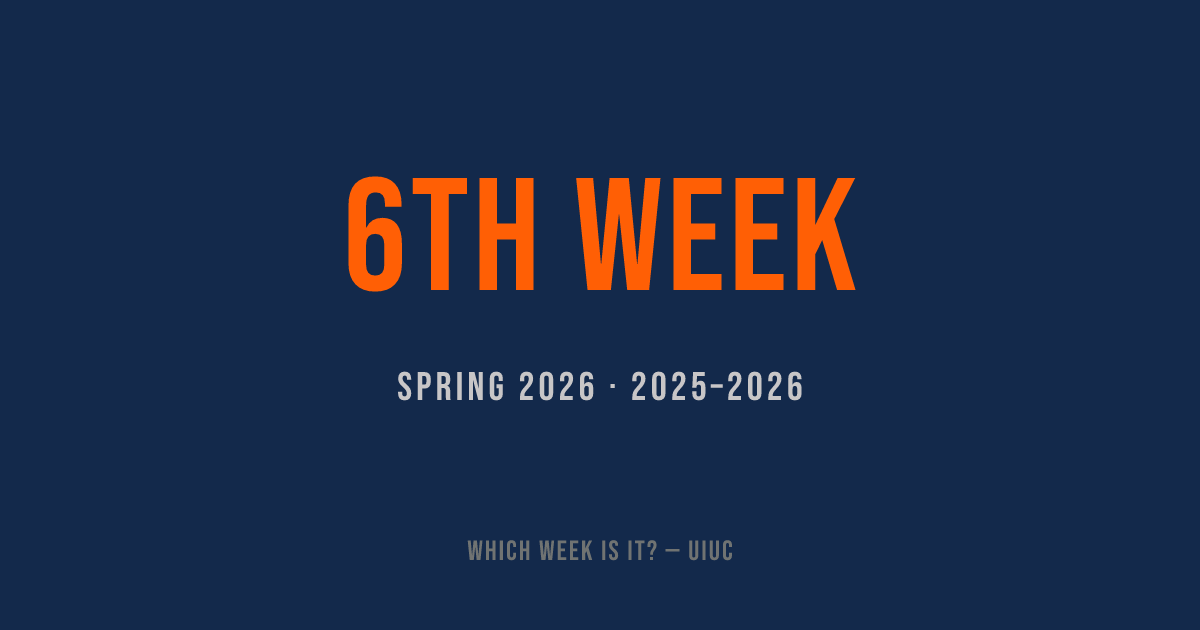
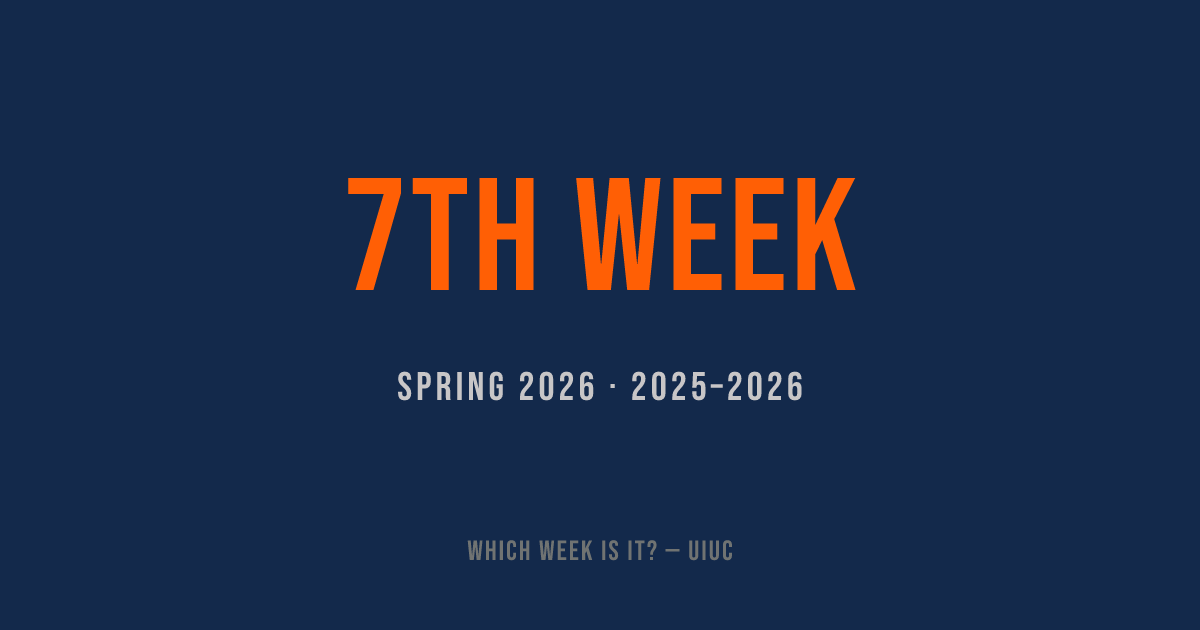
Fix week calculation to align on Monday boundaries
Semester start dates may not be Mondays, so align week counting
to the Monday of the starting week. Also fix UTC date parsing bug
by using local time consistently.

Changed region(s): [[0.2775, 0.2714, 0.3392, 0.4825]]

diff --git a/index.html b/index.html
@@ -3,9 +3,9 @@
 <head>
   <meta charset="UTF-8">
   <meta name="viewport" content="width=device-width, initial-scale=1.0">
-  <title>6th Week — UIUC</title>
-  <meta property="og:title" content="6th Week — UIUC">
-  <meta property="og:description" content="It's the 6th week of Spring 2026 at UIUC.">
+  <title>7th Week — UIUC</title>
+  <meta property="og:title" content="7th Week — UIUC">
+  <meta property="og:description" content="It's the 7th week of Spring 2026 at UIUC.">
   <meta property="og:image" content="https://zojize.github.io/which-week-is-it-uiuc/og.png">
   <meta property="og:image:type" content="image/png">
   <meta property="og:image:width" content="1200">
@@ -73,7 +73,7 @@
   </style>
 </head>
 <body>
-  <div id="app"><div class="week-display">6<sup>th</sup> Week</div>
+  <div id="app"><div class="week-display">7<sup>th</sup> Week</div>
     <div class="semester-info">Spring 2026 &middot; 2025–2026</div></div>
 
   <script>
@@ -96,6 +96,20 @@
       return new Date(new Date().toLocaleString('en-US', { timeZone: 'America/Chicago' }));
     }
 
+    function parseLocal(s) {
+      const [y, m, d] = s.split('-').map(Number);
+      return new Date(y, m - 1, d);
+    }
+
+    function weekOf(semStart, date) {
+      const start = parseLocal(semStart);
+      const dow = start.getDay();
+      const mondayOffset = dow === 0 ? 6 : dow - 1;
+      const firstMonday = new Date(start);
+      firstMonday.setDate(firstMonday.getDate() - mondayOffset);
+      return Math.floor((date - firstMonday) / 86400000 / 7) + 1;
+    }
+
     function render() {
       const cst = getCST();
       const today = new Date(cst.getFullYear(), cst.getMonth(), cst.getDate());
@@ -103,15 +117,13 @@
 
       let current = null;
       for (const sem of semesters) {
-        const start = new Date(sem.start + 'T00:00:00');
-        const end = new Date(sem.end + 'T23:59:59');
+        const start = parseLocal(sem.start);
+        const end = parseLocal(sem.end);
         if (today >= start && today <= end) { current = sem; break; }
       }
 
       if (current) {
-        const start = new Date(current.start + 'T00:00:00');
-        const diffDays = Math.floor((today - start) / 86400000);
-        const weekNum = Math.floor(diffDays / 7) + 1;
+        const weekNum = weekOf(current.start, today);
         const suffix = ordinalSuffix(weekNum);
         document.title = `${weekNum}${suffix} Week \u2014 UIUC`;
         app.innerHTML =
@@ -120,7 +132,7 @@
       } else {
         let next = null;
         for (const sem of semesters) {
-          if (today < new Date(sem.start + 'T00:00:00')) { next = sem; break; }
+          if (today < parseLocal(sem.start)) { next = sem; break; }
         }
         const msg = next ? `Classes resume ${next.start}` : 'Enjoy the break';
         document.title = 'Which Week Is It? \u2014 UIUC';
@@ -145,7 +157,7 @@
     // Static content is already rendered; only re-render if stale
     const cst = getCST();
     const today = new Date(cst.getFullYear(), cst.getMonth(), cst.getDate());
-    const builtDate = '2026-03-01';
+    const builtDate = '2026-03-02';
     if (builtDate !== today.toISOString().slice(0, 10)) render();
     scheduleNextUpdate();
   </script>

diff --git a/template.html b/template.html
@@ -95,6 +95,20 @@
       return new Date(new Date().toLocaleString('en-US', { timeZone: 'America/Chicago' }));
     }
 
+    function parseLocal(s) {
+      const [y, m, d] = s.split('-').map(Number);
+      return new Date(y, m - 1, d);
+    }
+
+    function weekOf(semStart, date) {
+      const start = parseLocal(semStart);
+      const dow = start.getDay();
+      const mondayOffset = dow === 0 ? 6 : dow - 1;
+      const firstMonday = new Date(start);
+      firstMonday.setDate(firstMonday.getDate() - mondayOffset);
+      return Math.floor((date - firstMonday) / 86400000 / 7) + 1;
+    }
+
     function render() {
       const cst = getCST();
       const today = new Date(cst.getFullYear(), cst.getMonth(), cst.getDate());
@@ -102,15 +116,13 @@
 
       let current = null;
       for (const sem of semesters) {
-        const start = new Date(sem.start + 'T00:00:00');
-        const end = new Date(sem.end + 'T23:59:59');
+        const start = parseLocal(sem.start);
+        const end = parseLocal(sem.end);
         if (today >= start && today <= end) { current = sem; break; }
       }
 
       if (current) {
-        const start = new Date(current.start + 'T00:00:00');
-        const diffDays = Math.floor((today - start) / 86400000);
-        const weekNum = Math.floor(diffDays / 7) + 1;
+        const weekNum = weekOf(current.start, today);
         const suffix = ordinalSuffix(weekNum);
         document.title = `${weekNum}${suffix} Week \u2014 UIUC`;
         app.innerHTML =
@@ -119,7 +131,7 @@
       } else {
         let next = null;
         for (const sem of semesters) {
-          if (today < new Date(sem.start + 'T00:00:00')) { next = sem; break; }
+          if (today < parseLocal(sem.start)) { next = sem; break; }
         }
         const msg = next ? `Classes resume ${next.start}` : 'Enjoy the break';
         document.title = 'Which Week Is It? \u2014 UIUC';
